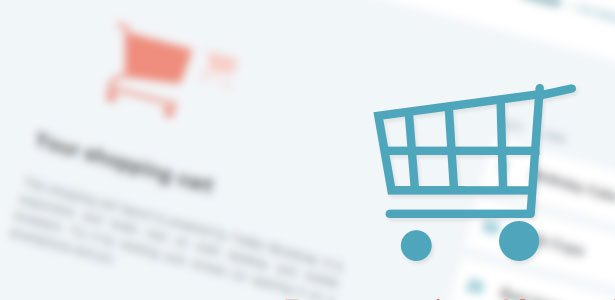
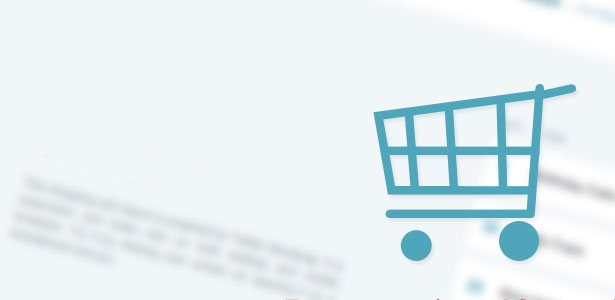
design of cart img was changed

Changed region(s): [[0.1545, 0.06, 0.4016, 0.39], [0.0309, 0.42, 0.3707, 0.66]]

diff --git a/Task_4_Web_Alina_Nesterenko_09_10_2015/index.html b/Task_4_Web_Alina_Nesterenko_09_10_2015/index.html
@@ -103,7 +103,7 @@
 			<li id="ottBasketSmallWrap" class="cart empty-small-cart">
 				<div>
 					<i class="ico">K</i>
-					<span class="m-sm-cart">Корзина:</span>
+					<a href="#win4" style="color:#fff;"><span class="m-sm-cart">Корзина:</span></a>
 					<span>0</span>
 				</div>
 			</li>
@@ -111,6 +111,8 @@
 		
 	</noindex>
 
+	
+	
 	
 <!-- -------------------- LOGIN ------------------------ -->
 
@@ -147,7 +149,7 @@
 
 <!-- -------------------- REGISTRATION ------------------------ -->
 
-<!-- Модальное окно №2 -->
+<!-- Модальное окно №3 -->
 <a href="#" class="overlay" id="win3"></a>
 <div class="popup">
 <div id="registration">
@@ -176,8 +178,28 @@
 </form>
 </div>
     </div>
-			<!-- конец модального окна №2 -->	
+			<!-- конец модального окна #3 -->	
 <!-- -------------------- end of REGISTRATION ------------------------ -->
+
+
+<!-- Модальное окно №4 -->
+
+   <a href="#" class="overlay" id="win4"></a>
+	<div class="popup">
+	<div id="cart">
+        <p class="region-h" style="font-size:28px;">Ваша корзина</p> 
+			<p id="cart-count"> Пока пуста.</p>
+                    
+                
+            
+		
+
+		<a class="close"title="Закрыть" href="#close"></a>
+    </div>
+	</div>
+			<!-- конец модального окна №4 -->	
+
+
 			
 	</section>
 	<div class="menu-m-swich"></div>

diff --git a/Task_4_Web_Alina_Nesterenko_09_10_2015/css/style.css b/Task_4_Web_Alina_Nesterenko_09_10_2015/css/style.css
@@ -2097,7 +2097,11 @@ right:20px;
 	color: #e57d00;
 }
 /* ----------------------------------------- */
-
+#cart-count{
+	color: #e57d00;
+	margin:70px 0 0 120px; 
+	font-size:26px;
+}
 /*  -------------- registration form ---------------*/
 #registration {
 	/* Center wrapper perfectly */
